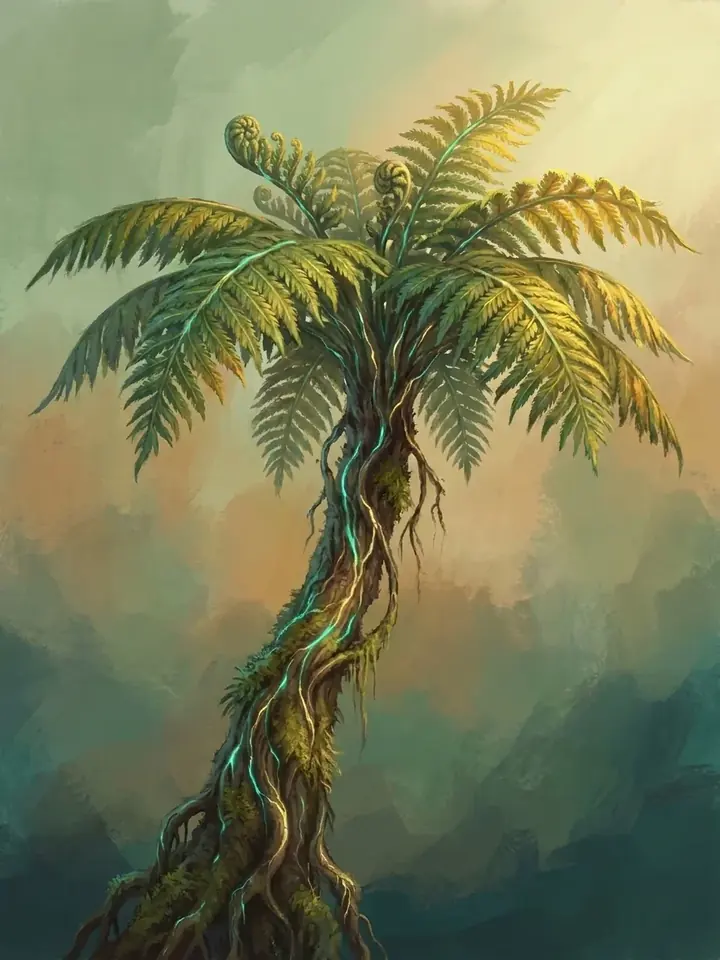
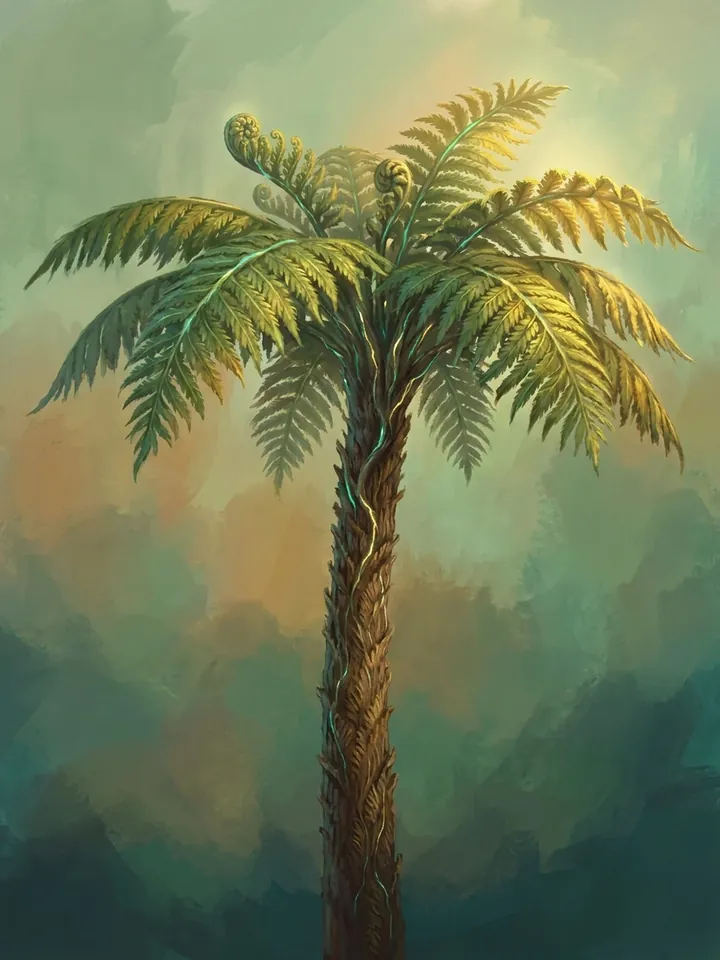
Release 1.3.50: nine paintings repainted, open waitlist art, 44px tap targets
- An audit of the 48 paintings found nine wrong: a three-winged great green macaw, a one-eyed hammerhead
  with its mouth on the side, leafcutter ants with floating leaves, cacao pods on twig tips, coffee cherries
  on stalks, a twisted tree fern, bean-shaped guanacaste pods, mangrove roots under the water, a basilisk
  leg. Each is repainted in the house style (720x960 WebP, under 60 KB).
- natureArtUrl adds ?v=<rev> for a repainted file, since the paintings are cached a day under one URL.
- Version 1.3.50 in package.json, identity.ts, docker-compose.yml, START_HERE.md, CHANGELOG.md.

diff --git a/shared/natureArt.ts b/shared/natureArt.ts
@@ -94,9 +94,28 @@ export function natureArt(slug: string | null | undefined): NatureArt | null {
   return slug ? (BY_SLUG.get(slug) ?? null) : null;
 }
 
+/**
+ * Paintings repainted after they first shipped, and how many times. The files are served for a day under one URL
+ * (and Cloudflare keeps them that long), so a repaint carries `?v=` and readers fetch the new file at once.
+ * Audit, 21 Nov 2026: a macaw with three wings, a one-eyed hammerhead, ants with floating leaves, cacao pods on the
+ * twig tips, and five more that were wrong for their species.
+ */
+const REPAINTED: Readonly<Record<string, number>> = {
+  "great-green-macaw": 2,
+  "hammerhead-shark": 2,
+  "leafcutter-ants": 2,
+  "emerald-basilisk": 2,
+  "guanacaste-tree": 2,
+  "cacao-tree": 2,
+  "coffee-plant": 2,
+  "tree-fern": 2,
+  "red-mangrove": 2,
+};
+
 /** A painting's public URL. */
 export function natureArtUrl(slug: string): string {
-  return `${NATURE_ART_URL}/${encodeURIComponent(slug)}.webp`;
+  const rev = REPAINTED[slug];
+  return `${NATURE_ART_URL}/${encodeURIComponent(slug)}.webp${rev ? `?v=${rev}` : ""}`;
 }
 
 /** FNV-1a, so a role's painting is the same on every server and every reload. */

diff --git a/shared/natureArt.test.ts b/shared/natureArt.test.ts
@@ -20,6 +20,8 @@ describe("the nature art library", () => {
 
   it("names its URL under /images/nature", () => {
     expect(natureArtUrl("jaguar")).toBe("/images/nature/jaguar.webp");
+    // A repainted file carries its revision, so a day-long cache cannot keep the old painting (audit, 21 Nov 2026).
+    expect(natureArtUrl("great-green-macaw")).toBe("/images/nature/great-green-macaw.webp?v=2");
   });
 });
 

diff --git a/server/lib/identity.ts b/server/lib/identity.ts
@@ -39,7 +39,7 @@ import type { Pool } from "mysql2/promise";
  * `supports` array and never on this ordering: a fork that turned a module off
  * is not older, it is differently shaped, and semver cannot say that.
  */
-export const PLATFORM_VERSION = "1.3.49";
+export const PLATFORM_VERSION = "1.3.50";
 
 /**
  * What this software is called, for people. NOT the wire identifier: the

diff --git a/CHANGELOG.md b/CHANGELOG.md
@@ -40,6 +40,22 @@ To word with Rye and the Legal session for the next release, left out of 1.3.0 o
 
 ---
 
+## 1.3.50 (2026-11-21)
+
+### What changed for your village
+
+- **Nine paintings repainted.** An audit of all 48 found a great green macaw with three wings, a hammerhead with one eye and its mouth on the side of its head, leafcutter ants with leaves floating over their backs, cacao pods hanging from twig tips, coffee cherries on stalks, a tree fern with a twisted trunk, guanacaste pods drawn as beans, a mangrove with roots under the water, and a basilisk with a doubtful leg. Each is repainted in the same style, and browsers fetch the new file at once.
+- **An open waitlist keeps its painting in shape.** Opening "Join the waitlist" on an upcoming role used to stretch its painting into a tall sliver down the side of the form. The painting now sits beside the role's name as a portrait, and the form takes the full width.
+- **Easier to tap on a phone.** The tick boxes on the role application, the waitlist and the love letter are larger, with a full finger's height of row around each. The "mark as done" circles on the investor and prosperity journeys, "Forgot your password?", "How we create together", the goal links on the home page and the visit form's fields are all a full finger's height.
+
+### What you must do
+
+Nothing.
+
+### Does it touch your data
+
+No.
+
 ## 1.3.49 (2026-11-21)
 
 ### What changed for your village

diff --git a/START_HERE.md b/START_HERE.md
@@ -46,7 +46,7 @@ Either download `village-os-starter-<version>.zip` from the latest release at
 whole repository if you mean to change the code:
 
 ```
-git clone --branch v1.3.49 https://github.com/ReGen-Civics/village-os.git
+git clone --branch v1.3.50 https://github.com/ReGen-Civics/village-os.git
 ```
 
 That is the release this file belongs to. Never clone without `--branch`: the
@@ -181,7 +181,7 @@ in your Admin.
 ## Part B: a hosting provider (Railway)
 
 1. Create a project with three things: a MySQL service, a service that runs
-   the image `ghcr.io/regen-civics/village-os:1.3.49`, and a volume on that service
+   the image `ghcr.io/regen-civics/village-os:1.3.50`, and a volume on that service
    mounted at `/app/data`.
 2. On your own computer, get the files (step 2 above) and run
    `node scripts/fork-init.mjs --village-name "Your Village" --admin-email you@example.org --domain village.example.org`.
